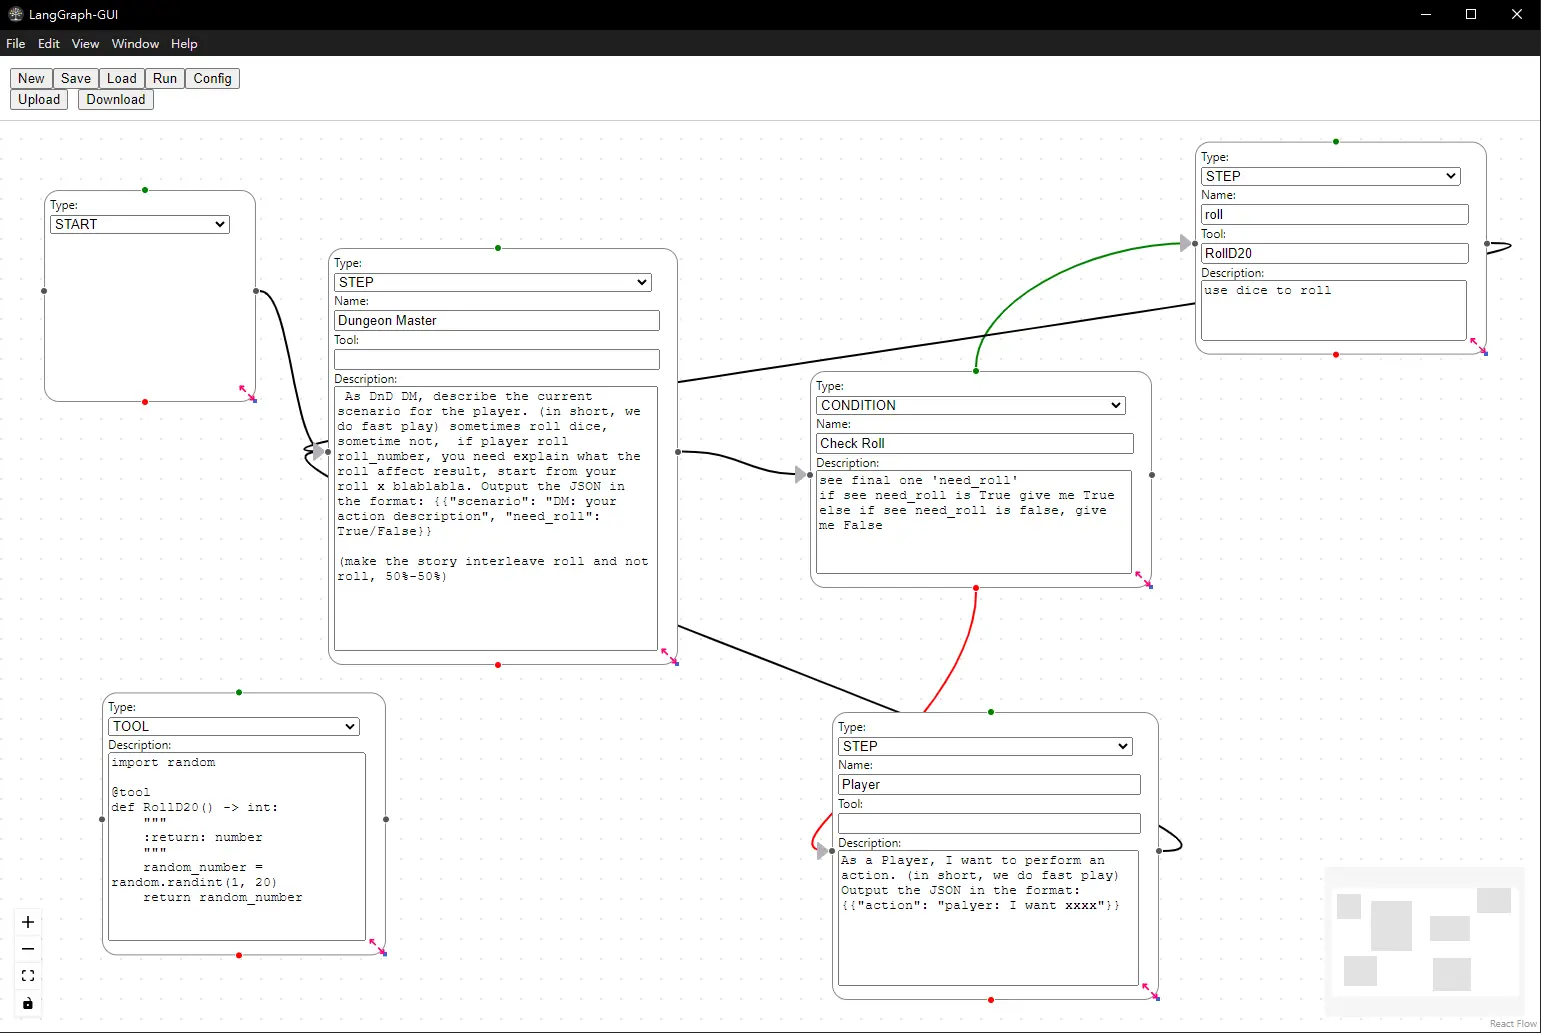
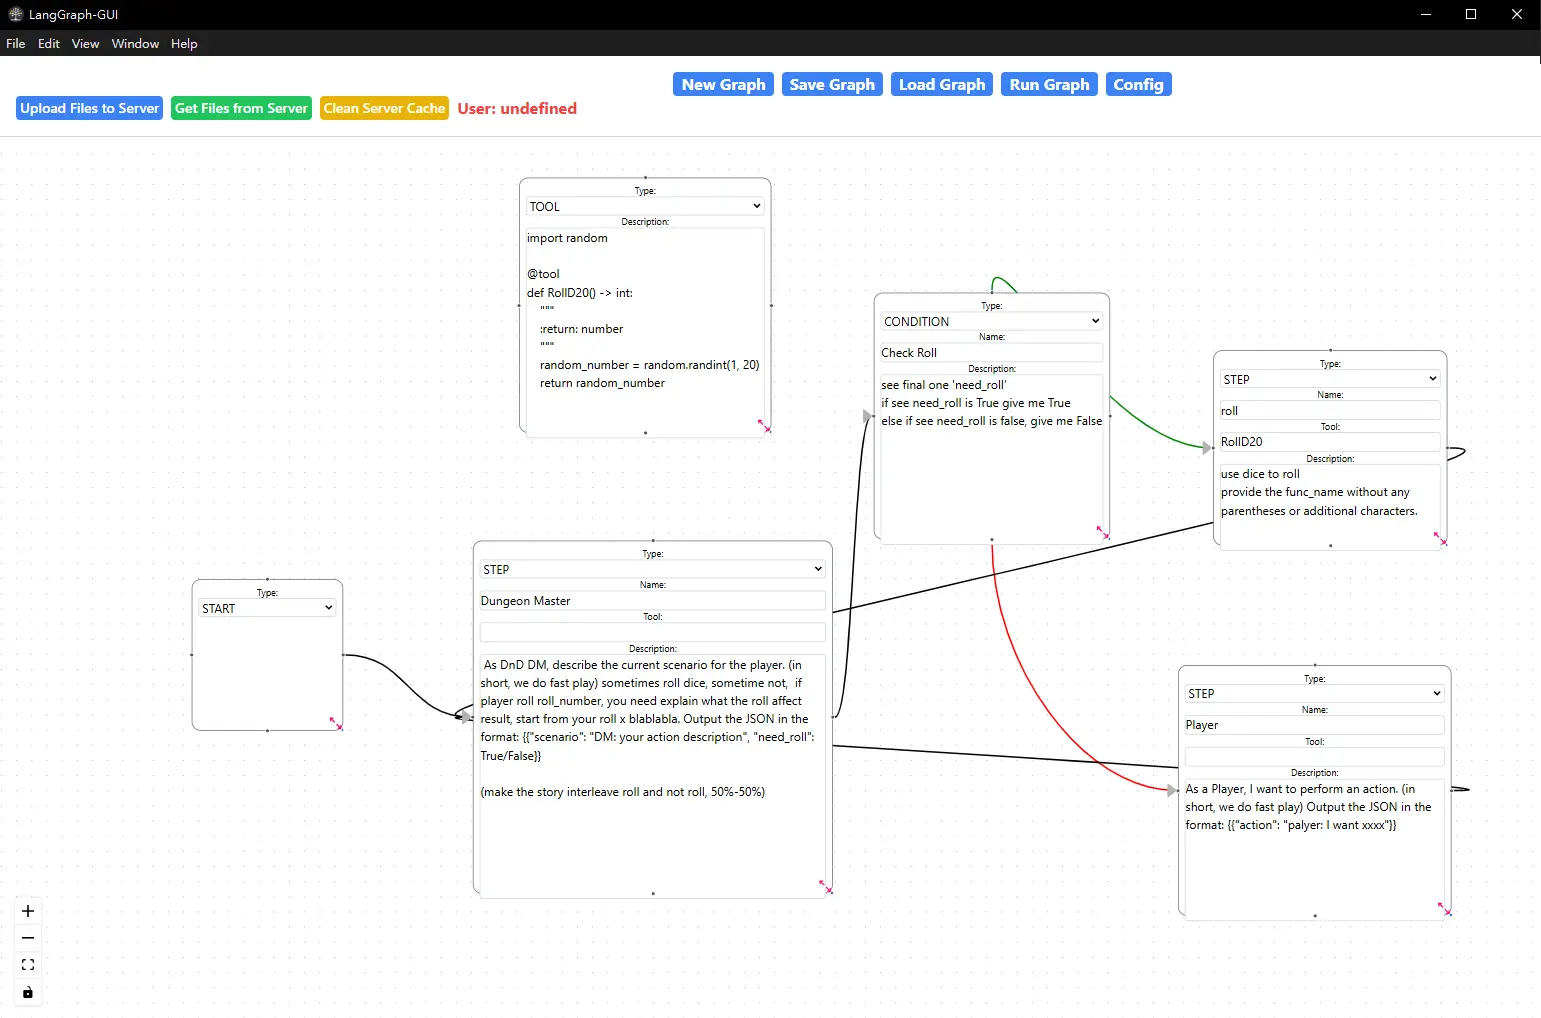
new ver update doc

diff --git a/Frontend/outline.html b/Frontend/outline.html
@@ -1,7 +1,8 @@
 <h2>Frontend</h2>
 
 <a href="/Frontend/">About</a></br>
-<a href="/Frontend/UI">UI</a></br>
-<a href="/Frontend/Graph">Graph</a></br>
+<a href="/Frontend/UI1">UI1</a></br>
+<a href="/Frontend/UI2">UI2</a></br>
+<a href="/Frontend/Graph">Graph UI</a></br>
 <a href="/Frontend/Examples">Examples</a></br>
 <a href="/Frontend/Run">Run</a></br>

diff --git a/Backend/index.md b/Backend/index.md
@@ -2,9 +2,49 @@
 
 The core file that convert json to LangGraph is [/src/WorkFlow.py](https://github.com/LangGraph-GUI/LangGraph-GUI-backend/blob/main/src/WorkFlow.py)
 
-This use Flask server to communicate with frontend.
+[llm.py](https://github.com/LangGraph-GUI/LangGraph-GUI-backend/blob/main/src/llm.py) demo how to replace to different LLM services.
 
-Current implementation only runs graph.json, need frontend upload.
+## Json Format
+
+json node format like this:
+you can extend ext to put your data, this is elastic design.
+for example, the ext.info is a ext and able to parse in our backend.
+```
+{
+  "nodes": [
+    {
+      "uniq_id": "1",
+      "nexts": [
+        "2"
+      ],
+      "type": "START",
+      "name": "Node 1",
+      "description": "",
+      "tool": "",
+      "true_next": null,
+      "false_next": null,
+      "ext": {
+        "pos_x": 126,
+        "pos_y": 146,
+        "width": 200,
+        "height": 200,
+        "info": ""
+      }
+    },
+```
+
+
+This use FastAPI server to communicate with frontend.
+
+Current implementation only runs graph.json.
+
+## multi user support
+if you use [nginx.conf](https://github.com/LangGraph-GUI/LangGraph-GUI/blob/main/nginx/nginx.conf)
+
+that different user will working at each own sub folder
+
+and each user will run it's own subprocess.
+
 
 *For a beginner-friendly introduction to LangGraph, visit [LangGraph-learn](https://github.com/LangGraph-GUI/LangGraph-learn).*
 

diff --git a/index.md b/index.md
@@ -3,9 +3,9 @@ layout: base
 
 ---
 
-# LangGraph-GUI
+# [LangGraph-GUI](https://github.com/LangGraph-GUI/LangGraph-GUI/)
 
-Welcome to the LangGraph-GUI project documentation!
+Welcome to the [LangGraph-GUI](https://github.com/LangGraph-GUI/LangGraph-GUI/) documentation!
 
 - To understand more about this project, visit the [About](/About) page.
 - For steps on using the GUI frontend, check out the [Frontend](/Frontend) documentation.
@@ -19,3 +19,9 @@ If you have any questions or would like to leave a message, please use our [GitH
 
 We hope you find the information you need. If you have any questions, feel free to reach out!
 
+
+## Update log and future works:
+* [general log](https://github.com/LangGraph-GUI/LangGraph-GUI/blob/main/CHANGELOG.md)
+* [frontend log](https://github.com/LangGraph-GUI/LangGraph-GUI-frontend/blob/main/CHANGELOG.md)
+* [backend log](https://github.com/LangGraph-GUI/LangGraph-GUI-backend/blob/main/CHANGELOG.md)
+* [task manager](https://github.com/orgs/LangGraph-GUI/projects)

diff --git a/Others/Windows.md b/Others/Windows.md
@@ -1,7 +1,6 @@
 # LangGraph GUI Setup on Windows
 
-
-This guide will help you set up and run the LangGraph GUI application, both backend and frontend, on a Windows environment.
+This guide will help you set up and run the LangGraph-GUI, both backend and frontend, on a Windows environment.
 
 ## Prerequisites
 
@@ -58,9 +57,10 @@ Before you begin, ensure you have the following installed on your system:
    Open a new PowerShell terminal window.
 
 2. **Clone the Frontend Repository**  
+   **frontend need dep**
    Clone the LangGraph frontend repository from GitHub:
    ```bash
-   git clone https://github.com/LangGraph-GUI/LangGraph-GUI-frontend
+   git clone --recursive https://github.com/LangGraph-GUI/LangGraph-GUI-frontend
    ```
 
 3. **Navigate to the Frontend Directory**  

diff --git a/Frontend/Run.md b/Frontend/Run.md
@@ -7,16 +7,13 @@ layout: frontend
 This will Run graph.json on server.
 That is, you need upload graph.json first.
 
-![](./images/run.webp)
+![](./images/run_window.webp)
 
 ## Run
-Execute graph.json into LangGraph with Ollama.
-After Run, recommand download files.
+Execute graph.json into LangGraph with LLM.
+After Run, recommand get files from server.
 
-## Stop
-To terminal remote running server. (Currently, many bugs. If stuck, plese restart docker compose)
-
-## Cancel
+## Leave
 Leave run menu
 
 ## Text Space

diff --git a/Frontend/UI1.md b/Frontend/UI1.md
@@ -1,0 +1,29 @@
+---
+layout: frontend
+
+---
+
+
+# UI
+
+There are several buttoms  
+![](./images/panel_major.webp)
+
+## New Graph
+
+New will clean the canvas.
+
+## Save Graph
+
+Save the graph into json to your computer.
+
+## Load Graph
+Read the graph json from your computer.
+
+## Run Graph
+Run graph.json on server, for more info, see [Run](./Run)
+
+
+## Config
+* set what llm you want to use
+* api key

diff --git a/Frontend/UI2.md b/Frontend/UI2.md
@@ -1,0 +1,21 @@
+---
+layout: frontend
+
+---
+
+
+# UI
+
+There are several buttoms  
+![](./images/panel_server.webp)
+
+## Upload Files to Server
+
+Send file to workspace as environment, for such file processing.
+
+## Get Files from Server
+
+After process with LLM, download all files in workspace.
+
+## Clean Server Cache
+Remove all files at workspace

diff --git a/Others/index.md b/Others/index.md
@@ -7,3 +7,5 @@ If you want to learn more about LangGraph, we also have [learning LangGraph for 
 We have Qt version: [LangGraph-GUI-Qt](https://github.com/LangGraph-GUI/LangGraph-GUI-Qt)
 
 We also have Qt version of [CrewAI-GUI](https://github.com/LangGraph-GUI/CrewAI-GUI)
+
+[Flask ver backend](https://github.com/LangGraph-GUI/LangGraph-GUI-backend-flask)

diff --git a/Frontend/Graph.md b/Frontend/Graph.md
@@ -40,3 +40,7 @@ CONDITION node will mapping to LangGraph conditional_edge
 ## Other Resource
 *If you want to learn more about LangGraph, we have LangGraph for dummy : [LangGraph-learn](https://github.com/LangGraph-GUI/LangGraph-learn)*
 
+#### Information Node
+INFO node do nothing, just append info to previous stage output
+
+![](images/info.webp)
